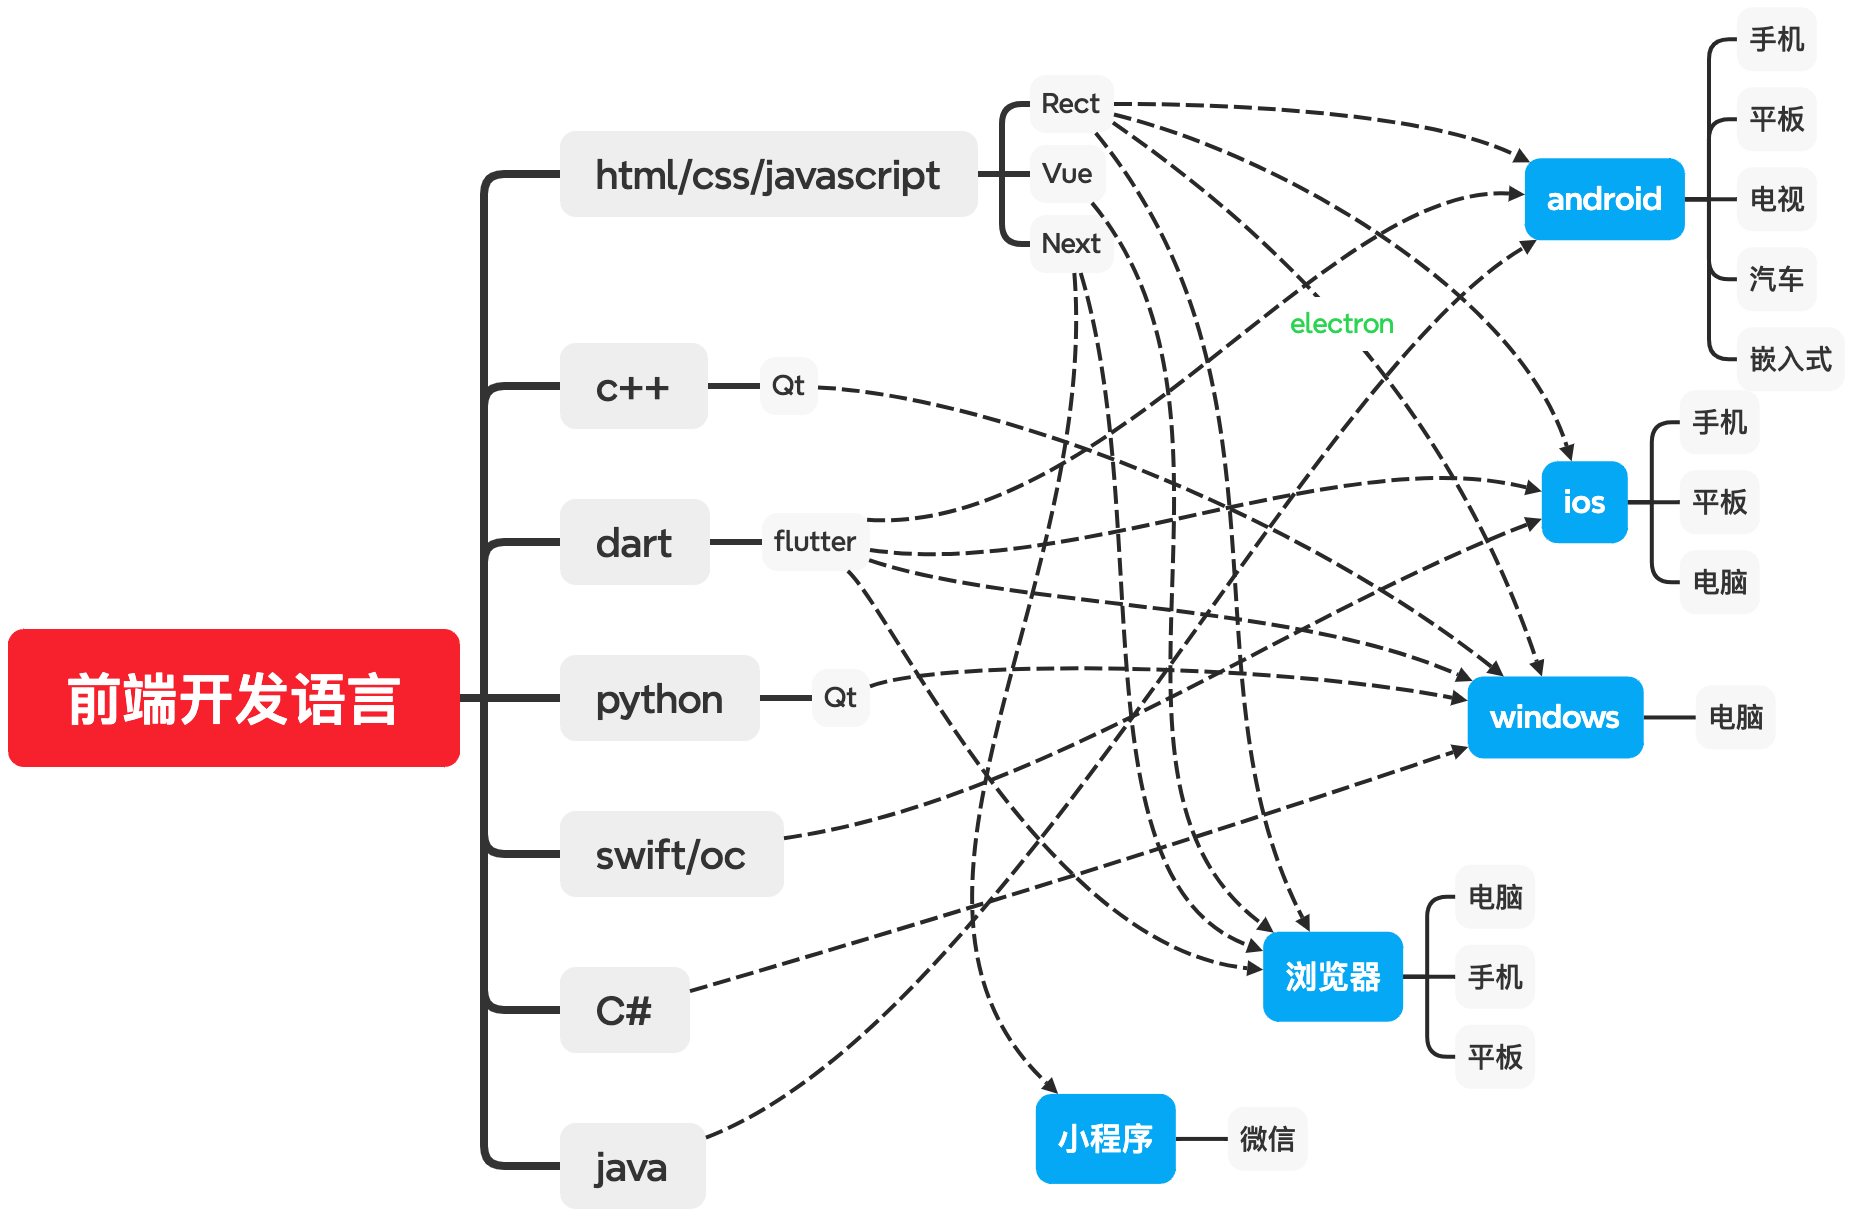
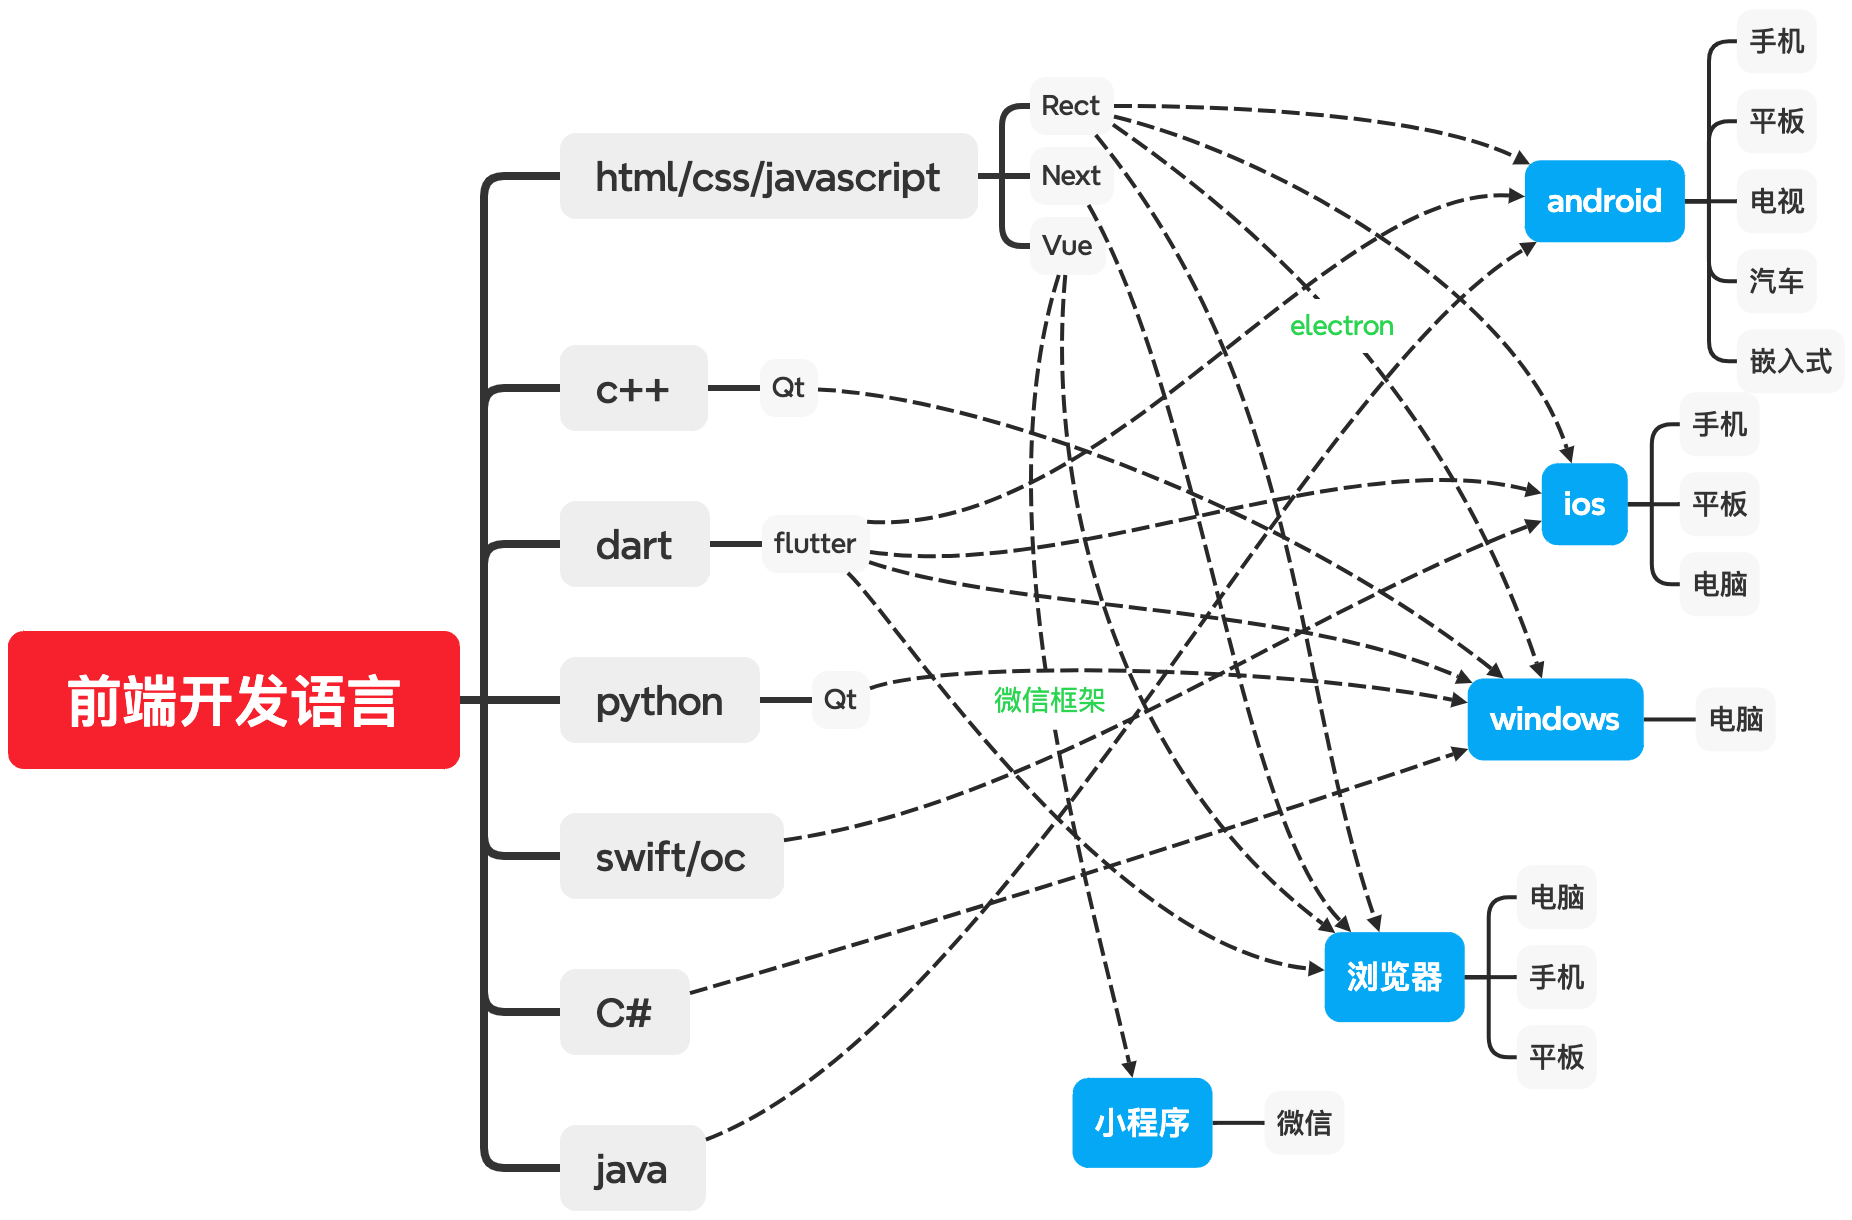
更新计算框架

diff --git a/docs/a-introduce/1-概述.md b/docs/a-introduce/1-概述.md
@@ -72,5 +72,5 @@ html/css/javascript演示程序
 
 ## 前端技术的现状
 
-![](https://raw.githubusercontent.com/hughxusu/lesson-web/develop/images/a-introduce/web.png)
+<img src="https://raw.githubusercontent.com/hughxusu/lesson-web/develop/images/a-introduce/web.png" style="zoom:55%;" />
 
